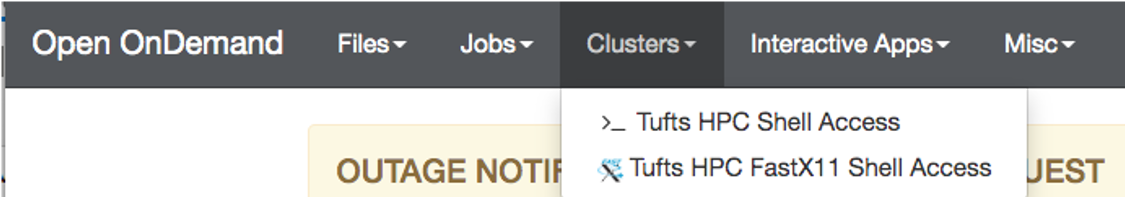
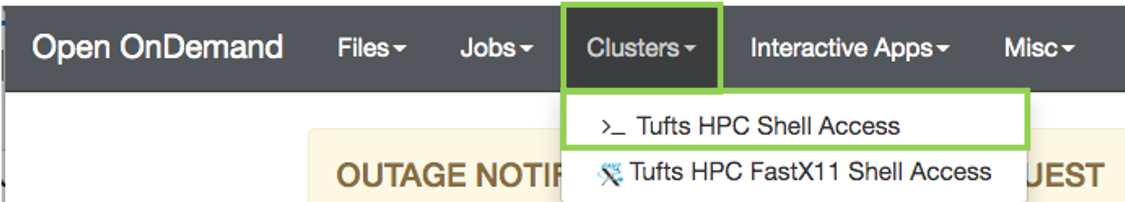
added png

diff --git a/lessons/01_Setup.md b/lessons/01_Setup.md
@@ -1,47 +1,105 @@
 Approximate time: 20 minutes
 
-## Learning Objectives
-
-- Connect to HPC
+## Goals
+- Connect to the HPC cluster via On Demand Interface
 - Download data
 
-
 # Log into the HPC cluster's On Demand interface
-1. Open a Chrome browser visit ondemand.cluster.tufts.edu
+1. Open a Chrome browser visit [ondemand.cluster.tufts.edu](ondemand.cluster.tufts.edu)
 2. Log in with your Tufts Credentials
 3. Choose Clusters->HPC Shell Access
-<img src="../img/od_menu.png" width="200">
+<img src="../img/od_menu.png" width="400">
 
-4. Type password, which is hidden for security purposes
-5. You'll see a welcome message ending in a bash prompt:
+4. Type your password at the prompt which appears (the password will be hidden for security purposes):
+
 `tutln01@login.cluster.tufts.edu's password:`
-6. Type `clear` to clear the terminal 
+
+5. You'll see a welcome message and a bash prompt, for example for user `tutln01`:
+
+`[tutln01@login001 ~]$`
+
+This indicates you are logged in to the login node.
+
+6. Type `clear` to clear the screen
  
+# Find 500M storage space for your analysis
 
-```markdown
-Syntax highlighted code block
+1. Check how much available storage you have in your home directory by typing `showquota`.
+You will see, for example:
 
-# Header 1
-## Header 2
-### Header 3
+```
+Home Directory Quota
+Disk quotas for user tutln01 (uid 31394): 
+     Filesystem  blocks   quota   limit   grace   files   quota   limit   grace
+hpcstore03:/hpc_home/home
+                  1222M   5120M   5120M            2161   4295m   4295m        
 
-- Bulleted
-- List
 
-1. Numbered
-2. List
-
-**Bold** and _Italic_ and `Code` text
-
-[Link](url) and ![Image](src)
+Listing quotas for all groups you are a member of
+Group: facstaff	Usage: 16819478240KB	Quota: 214748364800KB	Percent Used: 7.00%
 ```
 
-For more details see [GitHub Flavored Markdown](https://guides.github.com/features/mastering-markdown/).
+Under `blocks` you will see the amount of storage you are using, and under quota you see your quota. 
+Here, the user has used 1222M/5120M and has enough space for our 500M analysis.
+ 
+2. If you do not have 500M available, you may have space in a project directory for your lab. 
+These are located in `/cluster/tufts` with names like `/cluster/tufts/labname/username/`. 
+If you don't know whether you have project space, please email [tts-research@tufts.edu](mailto:tts-research@tufts.edu).
 
-### Jekyll Themes
+# Set up for our analysis
 
-Your Pages site will use the layout and styles from the Jekyll theme you have selected in your [repository settings](https://github.com/rbatorsky/galaxy-tutorials/settings). The name of this theme is saved in the Jekyll `_config.yml` configuration file.
+## Get the data
+1. Get an interaction session on a compute node by typing:
 
-### Support or Contact
+`srun --pty -t 3:00:00  --mem 16G  -N 1 -n 4 bash`
 
-Having trouble with Pages? Check out our [documentation](https://help.github.com/categories/github-pages-basics/) or [contact support](https://github.com/contact) and we’ll help you sort it out.
+2. Change to your home directory
+`cd `
+Or, if you are using a project directory:
+`cd /cluster/tufts/labname/username/`
+
+3. Copy the course folder:
+`cp /cluster/tufts/bio/tools/intro-to-ngs.tar.gz .`
+
+4. Unzip the course folder:
+`tar -xvzf intro-to-ngs.tar.gz`
+
+5. Take a look at the contents by typing:
+`tree intro-to-ngs`
+
+You'll see a list of all files
+```
+intro-to-ngs
+├── all_commands.sh          <-- Bash script with all commands 
+├──intro_to_ngs_Dec2019.pdf  <-- Course slides 
+├── raw_data                 <-- Folder with paired end fastq files
+│   ├── na12878_1.fq         
+│   └── na12878_2.fq
+├── README.md                <-- Instructions
+└── ref_data                 <-- Folder with reference sequence
+    └── chr10.fa
+2 directories, 5 files
+```
+
+## Data for the class
+
+GIAB was initiated in 2011 by the National Institute of Standards and Technology "to develop the technical infrastructure (reference standards, reference methods, and reference data) to enable translation of whole human genome sequencing to clinical practice" [Zook et al 2012](https://www.nist.gov/programs-projects/genome-bottle)
+<img src="../img/giab.png" width="400">
+
+We'll be using a DNA Exome sequencing dataset released by Genome In a Bottle (GIAB) for the purposes of benchmarking bioinformatics tools.
+
+The source DNA, known as NA12878, was taken from a single person: the daughter in a father-mother-child 'trio' (she is also mother to 11 children of her own) [Find link](). 
+Father-mother-child 'trios' are often sequenced to utilize genetic links between family members.
+
+Exome sequencing is a method to concentrate the sequenced DNA fragments in coding regions (exons) of the genome.
+<img src="../img/NA12878.png" width="400">
+
+For this class, I've created a small dataset that will allow our commands to finish quickly.
+
+Sample: NA12878
+
+Gene: Cyp2c19 on chromosome 10
+
+Sequencing: Illumina, Paired End, Exome
+
+

diff --git a/lessons/03_Alignment.md b/lessons/03_Alignment.md
@@ -1,32 +1,111 @@
 Approximate time: 20 minutes
 
-## Learning Objectives
-
-- 
-- View
-
 ## Goals
-- Writing and running bash scripts
-- Intro to several bioinformatics tools: BWA, Samtools, Picard, GATK
-- Variant Calling, Annotation and Interpretation
+- Align short reads to a references genome with BWA
+- View alignment using IGV
 
-## Prerequisites
+<img src="../img/workflow_align.png" width="400">
 
-### Computational skills needed
-- Introduction to [Linux](https://tufts.box.com/s/x9aflewr2qw59pcbgcghbo9muykbi4ju)
-- Introduction to [HPC](https://tufts.box.com/s/yubnzxnpih14hd80mbfxqrkdri8s2nws)
+# BWA Alignment
 
-### Materials Needed
-- Chrome web browser
-- Account on [Tufts HPC](https://access.tufts.edu/research-cluster-account)
-- [VPN](https://access.tufts.edu/vpn) if accessing the HPC from off campus
+Burrows-Wheeler Aligner ([BWA](http://bio-bwa.sourceforge.net/)) is a software package for mapping low-divergent sequences against a large reference genome, such as the human genome. 
 
-## Schedule
-- Introduction
-- Part 1
-- Part 2
-- Part 3 
+The Naive approach to read alignment is to compare a read to every position in the reference genome.
+This is too slow!
 
+BWA solves this problem by creating an "index" of our reference sequence for faster lookup.
+
+The following figure shows a short read with a red segment followed by a blue segment that we seek to align to a genome containing many blue and red segments.
+The table keeps track of all the locations where a given pattern (seed sequence) occurs in the reference genome.
+When BWA encounters a new read, it looks up a seed sequence at the beginning of the read. 
+This speeds up the search for potential alignment positions for a given read.
+
+<img src="../img/workflow_align.png" width="400">
+
+It has three algorithms:
+
+- BWA-backtrack: designed for Illumina sequence reads up to 100bp (3-step)
+- BWA-SW:  designed for longer sequences ranging from 70bp to 1Mbp, long-read support and split alignment
+- BWA-MEM: optimized for 70-100bp Illumina reads
+
+We'll use BWA-MEM.
+Underlying the BWA index is the [Burrows-Wheeler Transform](http://web.stanford.edu/class/cs262/presentations/lecture4.pdf)
+
+# BWA Index
+We'll create this index 
+
+1. Change to our reference data directory
+`cd intro-to-ngs/ref_data`
+
+2. Preview our genome using the command `head` by typing:
+
+`head chr10.fa` 
+
+You'll see the first 10 lines of the file `chr10.fa`:
+```buildoutcfg
+>chr10 AC:CM000672.2 gi:568336…   <-- >name
+NNNNNNNNNNNNNNNNNNNNN             <-- sequence
+…
+```
+This is an example of fasta format
+
+3. Load the BWA module, which will give us access to the `bwa` program:
+```
+module load bwa/0.7.17
+```
+
+Test it out without any arguments in order to view the help message.
+```markdown
+bwa
+```
+
+Result:
+```markdown
+Program: bwa (alignment via Burrows-Wheeler transformation)
+Version: 0.7.17-r1198-dirty
+Contact: Heng Li <lh3@sanger.ac.uk>
+
+Usage:   bwa <command> [options]
+
+Command: index         index sequences in the FASTA format
+…
+```
+
+Use the `index` command to see usage instructions for genome indexing
+
+```markdown
+bwa index
+```
+
+Result
+```markdown
+Usage:   bwa index [options] <in.fasta>
+Options: -a STR    BWT construction algorithm …
+
+```
+
+Run the command:
+```markdown
+bwa index chr10.fa
+```
+
+Result:
+```markdown
+[bwa_index] Pack FASTA... 1.01 sec
+[bwa_index] Construct BWT for the packed sequence...
+[BWTIncCreate] textLength=267594844, availableWord=30828588
+…
+```
+
+When it's done, take a look at the files produced by typing `ls`:
+```markdown
+chr10.fa      <-- Original sequence
+chr10.fa.amb  <-- Location of non-ATGC nucleotides
+chr10.fa.ann  <-- Sequence names, lengths
+chr10.fa.bwt  <-- BWT suffix array
+chr10.fa.pac  <-- Binary encoded sequence
+chr10.fa.sa   <-- Suffix array index
+```
 
 
 

diff --git a/lessons/02_Quality_Control.md b/lessons/02_Quality_Control.md
@@ -5,31 +5,41 @@ Approximate time: 20 minutes
 - Format of FastQ reads
 - Run FastQC to asses quality of reads
 
+## Take a look at our raw data
 
+### Fastq format
+Change into the raw data directory
 ```markdown
-Syntax highlighted code block
-
-# Header 1
-## Header 2
-### Header 3
-
-- Bulleted
-- List
-
-1. Numbered
-2. List
-
-**Bold** and _Italic_ and `Code` text
-
-[Link](url) and ![Image](src)
+cd raw_data
 ```
 
-For more details see [GitHub Flavored Markdown](https://guides.github.com/features/mastering-markdown/).
+Take a look at the first few lines of the first file, using the command `head`
+```markdown
+head na12878_1.fq
+```
 
-### Jekyll Themes
+Result
+```markdown
+@SRR098401.109756285/1                   <-- Sequence identifier: @Read ID / 1 or 2 of pair
+GACTCACGTAACTTTAAACTCTAACAGAAATATACTA…   <-- Sequence
++                                        <-- + (optionally lists the sequence identifier again)
+CAEFGDG?BCGGGEEDGGHGHGDFHEIEGGDDDD…      <-- Quality String
+```
 
-Your Pages site will use the layout and styles from the Jekyll theme you have selected in your [repository settings](https://github.com/rbatorsky/galaxy-tutorials/settings). The name of this theme is saved in the Jekyll `_config.yml` configuration file.
+### Base Quality Scores
 
-### Support or Contact
+The symbols we see in the read quality string are an encoding of the quality score:
 
-Having trouble with Pages? Check out our [documentation](https://help.github.com/categories/github-pages-basics/) or [contact support](https://github.com/contact) and we’ll help you sort it out.
+<img src="../img/base_qual.png" width="400">
+
+A quality score is a prediction of the probability of an error in base calling: 
+
+<img src="../img/base_qual_table.png" width="400">
+
+Looking back at our reads, we can see that the first base:
+
+Encoded quality C -> Q = 34, or the probability < 1/1000 of being an error.
+
+More information from [Illumina](https://www.illumina.com/science/education/sequencing-quality-scores.html)
+ 
+

diff --git a/README.md b/README.md
@@ -1,10 +1,10 @@
-# Introduction to NGS Bioinformatics
+### A Tufts University Research Technology Workshop
 
 ## Description
 This course covers the basics of Next Generation Sequencing Bioinformatics, with the final goal of variant calling and interpretation.
 The material is designed for a 2-3 hour workshop and is run on Tufts High Performance Compute Cluster
 
-## Learning Objectives
+## Goals
 - Writing and running bash scripts
 - Intro to several bioinformatics tools: BWA, Samtools, Picard, GATK
 - Variant Calling, Annotation and Interpretation
@@ -31,3 +31,6 @@ The material is designed for a 2-3 hour workshop and is run on Tufts High Perfor
 - [Annotation and Interpretation](lessons/05_Annotation_Interpretation.md)
 
 
+## Acknowledgement
+
+[HBC Training In Depth NGS Analysis Course] (https://github.com/hbctraining/In-depth-NGS-Data-Analysis-Course)
